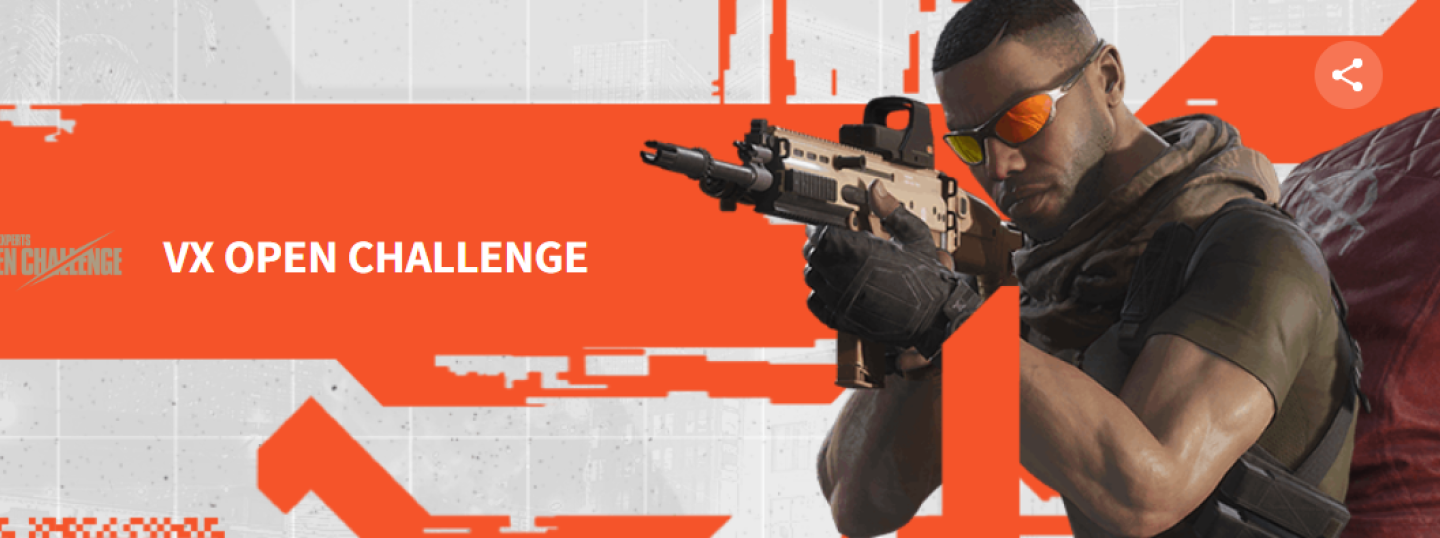
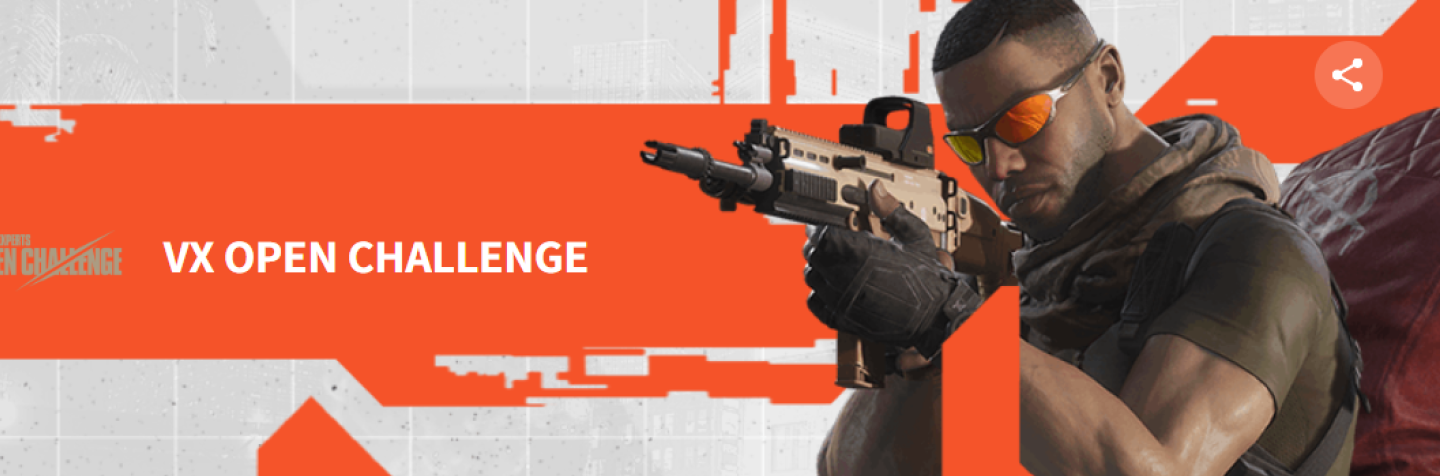
save

diff --git a/src/components/Banner/Banner.tsx b/src/components/Banner/Banner.tsx
@@ -1,0 +1,69 @@
+import banner from '../../image/banner.png'
+import CompOutline from '../CompOutline/CompOutline';
+import RuleBook from '../RuleBook/RuleBook';
+import ParticipatingTeam from '../ParticipatingTeam/ParticipatingTeam';
+import Result from '../Result/Result';
+import { useState } from 'react';
+
+const Banner = () => {
+    const navItems = ['대회 개요', '경기 규정', '참가팀', '대진표', '결과'];
+    const [active, setActive] = useState(navItems[0]);
+
+    let activeComponent;
+    switch (active) {
+        case '대회 개요':
+            activeComponent = <CompOutline />;
+            break;
+        case '경기 규정':
+            activeComponent = <RuleBook />;
+            break;
+        case '참가팀':
+            activeComponent = <ParticipatingTeam />;
+            break;
+        case '결과':
+            activeComponent = <Result />;
+            break;
+        default:
+            activeComponent = null;
+    }
+
+    return (
+        <div>
+            {/* {배너 관련 코드} */}
+            <div className="w-full h-[57px] bg-[#3F4FE1] text-white text-[20px] p-3">
+                <span className="ml-[30px]">VX OPEN CHLLENGE</span>
+                <span className="h-full border-r border-white mx-4"></span>
+                <span className="">대회 상세 페이지</span>
+            </div>
+            <div>
+                <div className="w-full h-[504px] bg-cover bg-center relative">
+                    {/* 배경 이미지 설정 */}
+                    <img src={banner} alt="배너" className="w-full h-full" />
+
+                    {/* 맨 아래쪽에 겹치는 박스 */}
+                    <div className="flex items-center absolute bottom-0 left-0 w-full h-[139px] bg-black bg-opacity-50 text-[64px] text-white font-sans font-extrabold pl-10">
+                        <h1 className="drop-shadow-lg">VX OPEN CHALLENGE</h1>
+                    </div>
+                </div>
+            </div>
+            {/* {배너 관련 코드} */}
+            {/* 네비게이션 링크 */}
+            <ul className="h-[78px] flex items-center text-xl gap-16 text-white bg-black pl-[144px]">
+                {navItems.map((item) => (
+                    <li
+                        className={`
+                            ${item === active && 'border-b-[1px] text-[#3F4FE1] border-primary'}
+                            py-4 ml-[5%]`}
+                        onClick={() => setActive(item)}
+                    >
+                        {item}
+                    </li>
+                ))}
+            </ul>
+            {/* 네비게이션 링크 */}
+            {activeComponent}
+        </div>
+    );
+};
+
+export default Banner

diff --git a/src/components/CompOutline/CompOutline.tsx b/src/components/CompOutline/CompOutline.tsx
@@ -1,23 +1,9 @@
-import banner from '../../image/banner.png'
+
 const CompOutline = () => {
     const backendInfo = ['ㅁㅁㅁㅁㅁㅁㅁㅁㅁㅁㅁㅁㅁㅁㅁㅁㅁㅁㅁㅁㅁㅁㅁㅁㅁㅁㅁㅁㅁㅁㅁㅁㅁㅁㅁㅁㅁㅁ'];
 
     return (
         <div className="h-screen">
-            {/* {배너 관련 코드} */}
-            <div className="w-full h-1/20 bg-[#3F4FE1]">.</div>
-            <div>
-                <div className="w-full h-[504px] bg-cover bg-center relative">
-                    {/* 배경 이미지 설정 */}
-                    <img src={banner} alt="배너" className="w-full h-full" />
-
-                    {/* 맨 아래쪽에 겹치는 박스 */}
-                    <div className="flex items-center absolute bottom-0 left-0 w-full h-[139px] bg-black bg-opacity-50 text-[64px] text-white font-sans font-extrabold pl-10">
-                        <h1 className="drop-shadow-lg">VX OPEN CHALLENGE</h1>
-                    </div>
-                </div>
-            </div>
-            {/* {배너 관련 코드} */}
             <div className="mt-[5%] ml-[5%]">
                 <div className="flex mt-[5%] ml-[5%]">
                     <div className="w-[83px] h-[43px] bg-white text-[32px] text-center text-[#3F4FE1]">

diff --git a/src/components/ParticipatingTeam/ParticipatingTeam.tsx b/src/components/ParticipatingTeam/ParticipatingTeam.tsx
@@ -1,5 +1,4 @@
 import React from 'react';
-import banner from '../../image/banner.png'
 
 const ParticipatingTeam = () => {
 
@@ -7,17 +6,6 @@ const ParticipatingTeam = () => {
 
     return (
         <div className="h-screen mb-[10%]">
-            {/* {배너 관련 코드} */}
-            <div>
-                <div className="w-full h-[504px] bg-cover bg-center relative">
-                    {/* 배경 이미지 설정 */}
-                    <img src={banner} alt="배너" className="w-full h-full" />
-
-                    {/* 맨 아래쪽에 겹치는 박스 */}
-                    <div className="flex items-center absolute bottom-0 left-0 w-full h-[139px] bg-black bg-opacity-50 text-[64px] text-white font-bold pl-10">VX OPEN CHALLENGE</div>
-                </div>
-            </div>
-            {/* {배너 관련 코드} */}
             <div className="flex justify-between mt-[30px] ml-[10%] mr-[10%] ">
                 <div className="text-white text-[40px]">VX OPEN CHALLENGE</div>
                 <div className="flex items-center">

diff --git a/src/components/Result/Result.tsx b/src/components/Result/Result.tsx
@@ -1,5 +1,4 @@
 import React from 'react';
-import banner from '../../image/banner.png'
 
 const Result = () => {
 
@@ -7,17 +6,6 @@ const Result = () => {
 
     return (
         <div className="h-screen mb-[10%]">
-            {/* {배너 관련 코드} */}
-            <div>
-                <div className="w-full h-[504px] bg-cover bg-center relative">
-                    {/* 배경 이미지 설정 */}
-                    <img src={banner} alt="배너" className="w-full h-full" />
-
-                    {/* 맨 아래쪽에 겹치는 박스 */}
-                    <div className="flex items-center absolute bottom-0 left-0 w-full h-[139px] bg-black bg-opacity-50 text-[64px] text-white font-bold pl-10">VX OPEN CHALLENGE</div>
-                </div>
-            </div>
-            {/* {배너 관련 코드} */}
             <div className="flex justify-between mt-[30px] ml-[10%] mr-[10%]">
                 <div className="text-white text-[40px]">VX OPEN CHALLENGE</div>
                 <div className="flex items-center">

diff --git a/src/components/RuleBook/RuleBook.tsx b/src/components/RuleBook/RuleBook.tsx
@@ -1,20 +1,8 @@
-import banner from '../../image/banner.png'
+
 
 const RuleBook = () => {
     return (
         <div className="h-screen">
-            {/* {배너 관련 코드} */}
-            <div>
-                <div className="w-full h-[504px] bg-cover bg-center relative">
-                    {/* 배경 이미지 설정 */}
-                    <img src={banner} alt="배너" className="w-full h-full" />
-
-                    {/* 맨 아래쪽에 겹치는 박스 */}
-                    <div className="flex items-center absolute bottom-0 left-0 w-full h-[139px] bg-black bg-opacity-50 text-[64px] text-white font-bold pl-10">VX OPEN CHALLENGE</div>
-                </div>
-            </div>
-            {/* {배너 관련 코드} */}
-            {/* 버튼 스타일을 적용한 예시 버튼 */}
             <div className="mt-[60px] ml-[10%] mr-[10%]">
                 <button className="w-[125px] h-[51px] bg-[#3f4fe1] text-white text-[32px]">
                     규정집

diff --git a/src/main.tsx b/src/main.tsx
@@ -6,6 +6,7 @@ import Home from './pages/Home.tsx';
 import RuleBook from './components/RuleBook/RuleBook.tsx'
 import ParticipatingTeam from './components/ParticipatingTeam/ParticipatingTeam.tsx'
 import Result from './components/Result/Result.tsx'
+import Banner from './components/Banner/Banner.tsx'
 import './index.css'
 import CompOutline from './components/CompOutline/CompOutline.tsx';
 
@@ -18,6 +19,10 @@ const router = createBrowserRouter([
       {
         index: true,
         element: <Home />
+      },
+      {
+        path: 'banner', 
+        element: <Banner />
       },
       {
         path: 'rule-book', 
